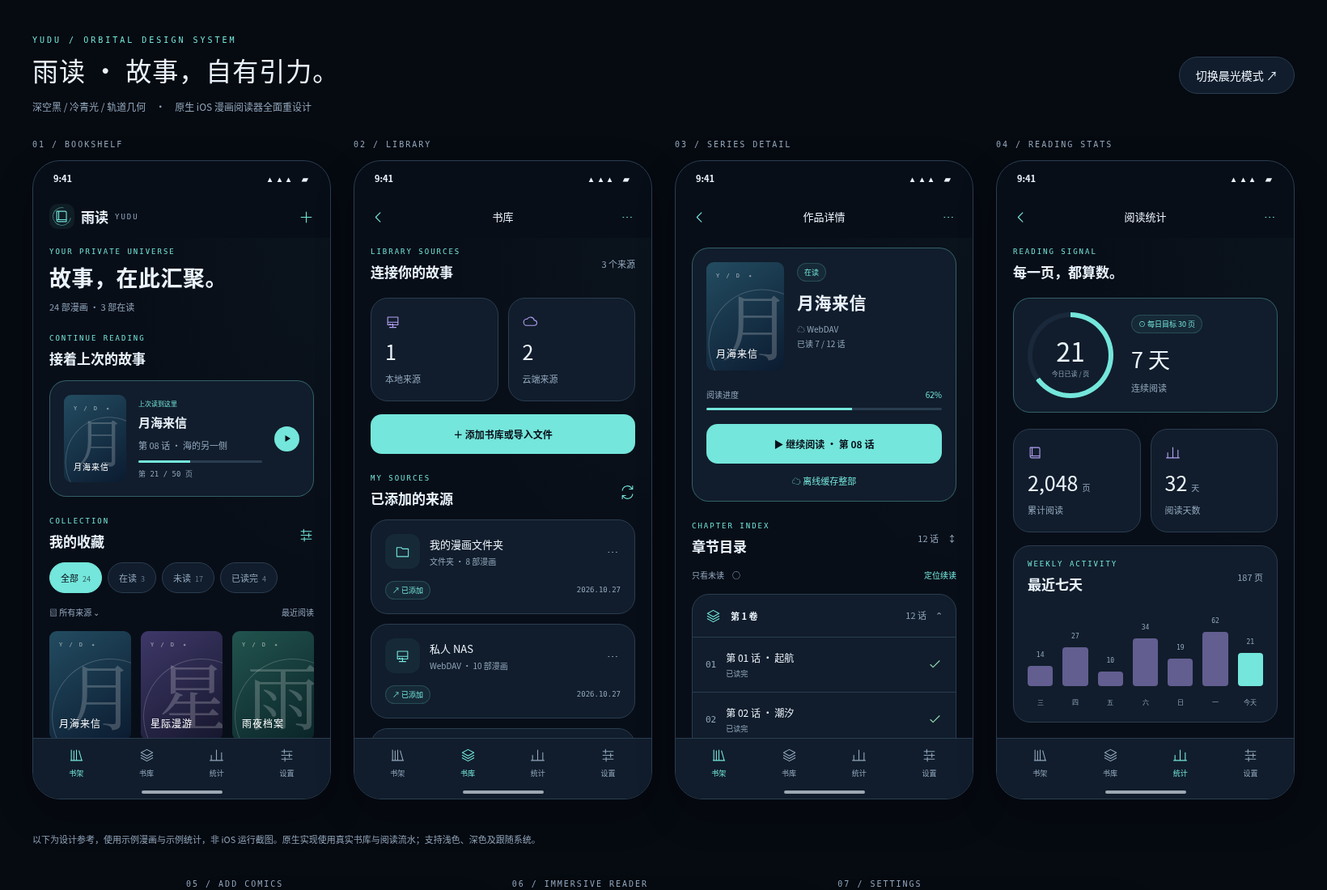
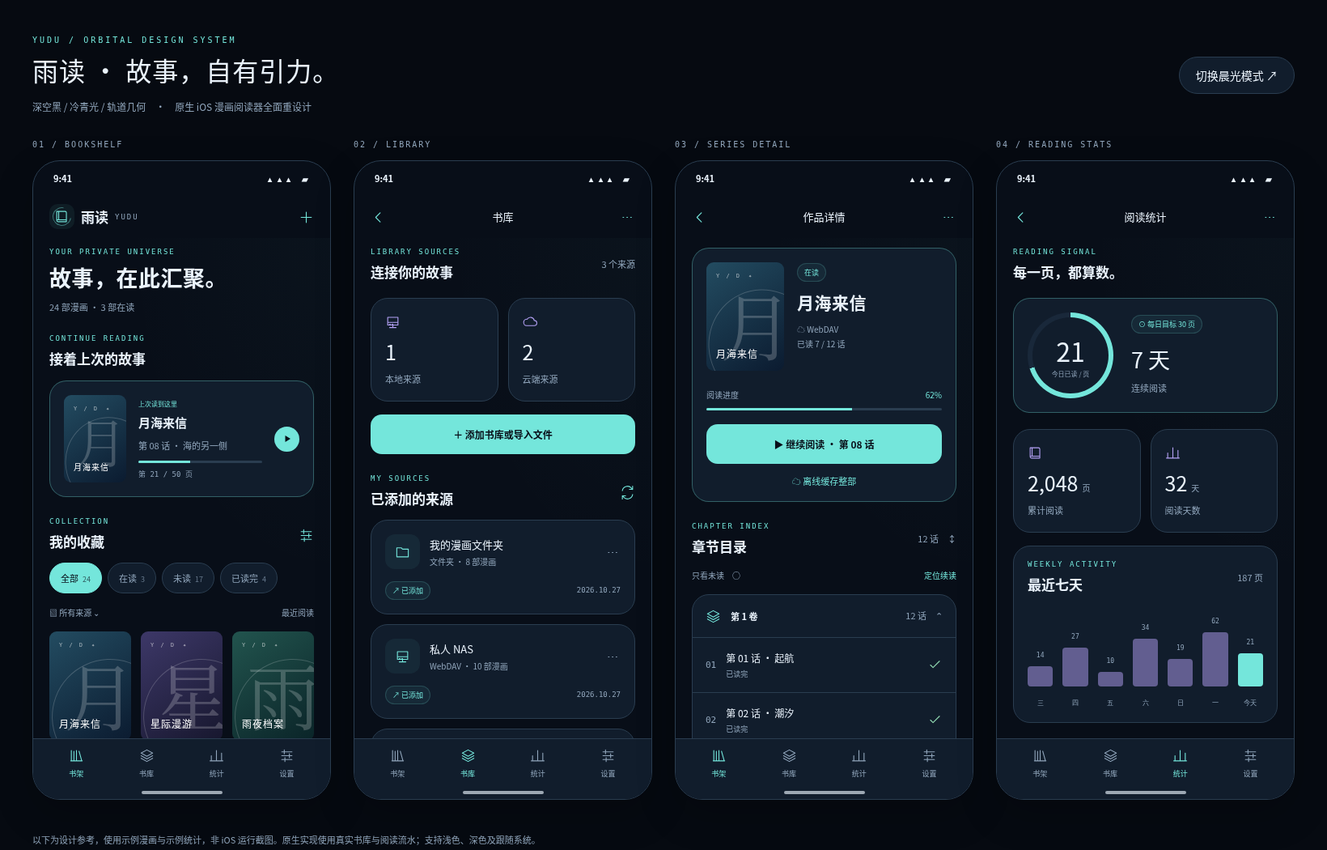
Polish native settings and disabled controls; verify Release configuration

diff --git a/docs/orbital-preview.html b/docs/orbital-preview.html
@@ -4,7 +4,7 @@
 <title>雨读 Yudu · Orbital 设计预览</title>
 <style>
 :root{color-scheme:dark;--bg:#080e18;--panel:#111d2c;--elev:#19283a;--text:#eaf3fc;--muted:#91a6bc;--line:#2a3d50;--cyan:#74e6db;--violet:#b4a1f5;--green:#92dbb3}
-*{box-sizing:border-box}body{margin:0;background:#060a11;color:#eaf3fc;font:14px -apple-system,BlinkMacSystemFont,'Noto Sans CJK SC',sans-serif}button{font:inherit;cursor:pointer}button:focus-visible{outline:2px solid var(--cyan);outline-offset:3px}button:disabled{opacity:.35;cursor:default}header{max-width:1640px;margin:auto;padding:44px 40px 30px;display:flex;align-items:center;justify-content:space-between;gap:20px}h1{font-size:32px;letter-spacing:1px;font-weight:500;margin:8px 0 12px}.kicker{font:10px ui-monospace,monospace;letter-spacing:3px;color:var(--cyan)}header p{color:#91a6bc;margin:0;font-size:12px;line-height:1.8}.theme{border:1px solid #2a3d50;background:#111d2c;color:#eaf3fc;border-radius:30px;padding:12px 20px;white-space:nowrap}.board{display:grid;grid-template-columns:repeat(4,minmax(0,1fr));gap:28px;max-width:1640px;margin:0 auto;padding:0 40px 40px}.label{font:10px ui-monospace,monospace;color:#91a6bc;letter-spacing:2px;margin:0 0 14px}.phone{height:790px;border:1px solid var(--line);border-radius:34px;background:var(--bg);overflow:hidden;position:relative;box-shadow:0 18px 50px #0003;color:var(--text)}.status{height:43px;display:flex;align-items:center;justify-content:space-between;padding:0 25px;font-size:11px;font-weight:600}.status .right{font-size:10px;letter-spacing:2px}.nav{height:52px;padding:0 20px;display:flex;align-items:center;justify-content:space-between}.wordmark{display:flex;align-items:center;gap:8px;font-size:17px;font-weight:600}.wordmark small{font:9px monospace;letter-spacing:2px;color:var(--muted)}.emblem{width:31px;height:31px;background:#74e6db12;border-radius:10px;display:grid;place-items:center;color:var(--cyan);position:relative}.emblem:before{content:'';position:absolute;inset:4px;border:1px solid #74e6db70;border-radius:50%;border-right-color:transparent;transform:rotate(-35deg)}.ico{width:19px;height:19px;fill:none;stroke:currentColor;stroke-width:1.4;stroke-linecap:round;stroke-linejoin:round;vertical-align:middle;flex-shrink:0}.iconbtn{width:40px;height:40px;display:grid;place-items:center;border:0;background:none;color:var(--cyan);padding:0}.screen{height:620px;overflow:auto;padding:12px 20px 24px;background:radial-gradient(ellipse at 100% 0,#74e6db06,transparent 50%);scrollbar-width:none}.screen::-webkit-scrollbar{display:none}.screen h2{font-size:27px;font-weight:600;letter-spacing:.5px;margin:7px 0 8px}.screen h3{font-size:17px;font-weight:600;margin:5px 0}.muted{color:var(--muted)}.caption{font-size:11px;line-height:1.7}.eyebrow{font:9px monospace;letter-spacing:2px;color:var(--cyan);margin-bottom:7px}.section{margin-top:25px}.sectiontitle{display:flex;align-items:center;justify-content:space-between;margin-bottom:14px}.sectiontitle h3{margin:0}.panel{padding:17px;border:1px solid var(--line);background:var(--panel);border-radius:21px}.feature{border-color:#74e6db55;display:flex;gap:15px;align-items:center;margin-top:15px}.cover{aspect-ratio:3/4;border-radius:9px;background:linear-gradient(145deg,#234c61,#0b1b30);position:relative;overflow:hidden;color:#fff;isolation:isolate}.cover:before{content:'';width:140%;height:104%;border:1px solid #ffffff30;border-radius:50%;position:absolute;top:25%;left:3%;transform:rotate(-25deg)}.cover:after{content:attr(data-char);font:90px 'Noto Serif CJK SC',serif;position:absolute;top:8%;left:18%;color:#ffffff35;z-index:-1}.cover .bookname{position:absolute;bottom:12px;left:12px;right:7px;font-size:12px;line-height:1.4;letter-spacing:1px}.cover .code{position:absolute;top:11px;left:12px;font:7px monospace;letter-spacing:2px;color:#ffffff90}.cover.purple{background:linear-gradient(145deg,#3d3868,#17172e)}.cover.teal{background:linear-gradient(145deg,#22544e,#0a2428)}.cover.warm{background:linear-gradient(145deg,#644a49,#291d30)}.cover.blue{background:linear-gradient(145deg,#304e77,#101b35)}.feature .cover{width:77px;min-width:77px;height:108px}.feature .cover:after{font-size:64px}.feature .bookname{font-size:10px}.feature .info{flex:1;min-width:0}.feature h4{font-size:15px;line-height:1.5;margin:0 0 6px;font-weight:600}.feature .resume{font:8px monospace;color:var(--cyan);margin-bottom:7px}.track{height:3px;background:var(--line);border-radius:6px;overflow:hidden;margin:9px 0 7px}.track span{display:block;width:42%;height:100%;background:var(--cyan)}.play{background:var(--cyan);color:var(--bg);width:31px;height:31px;border-radius:50%;display:grid;place-items:center;flex-shrink:0}.play .ico{width:12px;height:12px;fill:currentColor;stroke-width:0}.chips{display:flex;gap:7px;margin-bottom:13px}.chip{padding:10px 13px;border:1px solid var(--line);color:var(--muted);background:var(--panel);border-radius:30px;font-size:11px;white-space:nowrap}.chip.active{background:var(--cyan);color:var(--bg);border-color:var(--cyan)}.chip small{margin-left:5px;opacity:.65;font-size:9px}.sourcebar{font-size:10px;display:flex;justify-content:space-between;color:var(--muted);margin:16px 0}.grid{display:grid;grid-template-columns:repeat(3,1fr);gap:19px 12px}.book p{font-size:11px;margin:7px 0 3px;white-space:nowrap;overflow:hidden;text-overflow:ellipsis}.book small{font-size:9px;color:var(--muted)}.tabs{height:75px;border-top:1px solid var(--line);background:var(--panel);position:absolute;bottom:0;width:100%;display:flex;justify-content:space-around;align-items:flex-start;padding:11px 10px}.tab{font-size:9px;color:var(--muted);display:flex;flex-direction:column;align-items:center;gap:6px}.tab.active{color:var(--cyan)}.homebar{width:100px;height:4px;border-radius:10px;background:var(--text);position:absolute;bottom:6px;left:50%;transform:translateX(-50%);opacity:.65}.metrics{display:grid;grid-template-columns:1fr 1fr;gap:12px;margin:20px 0 16px}.metric{padding:17px}.metric .num{font-size:25px;font-weight:500;margin:9px 0 5px;font-variant-numeric:tabular-nums}.metric .ico{color:var(--violet)}.metric .num small{font-size:10px;color:var(--muted);margin-left:5px}.primary{border:none;border-radius:14px;background:var(--cyan);color:var(--bg);font-weight:600;width:100%;padding:16px 12px;font-size:12px}.pill{display:inline-flex;gap:4px;align-items:center;background:#74e6db10;color:var(--cyan);border:1px solid #74e6db30;border-radius:30px;padding:4px 8px;font-size:9px;white-space:nowrap}.source{margin:12px 0;padding:17px}.sourcerow{display:flex;align-items:center;gap:12px}.sourceicon{width:43px;height:43px;background:#74e6db10;border-radius:12px;color:var(--cyan);display:grid;place-items:center}.source strong{font-size:13px;font-weight:500}.sourcerow .text{flex:1}.sourcerow p{margin:4px 0 0;font-size:10px;color:var(--muted)}.sourcefoot{display:flex;justify-content:space-between;align-items:center;margin-top:15px}.sourcefoot small{font:9px monospace;color:var(--muted)}.note{font-size:11px;color:var(--muted);line-height:1.9}.detailtop{display:flex;gap:16px;margin-bottom:22px}.detailtop .cover{width:96px;min-width:96px;height:134px}.detailtop h2{font-size:21px;margin:10px 0}.detailtop .muted{font-size:10px;line-height:1.8}.detail .track{margin-bottom:17px}.offlinelabel{text-align:center;color:var(--cyan);font-size:11px;margin-top:13px}.chapters{padding:0;overflow:hidden}.chapter{display:flex;align-items:center;gap:12px;padding:16px;border-bottom:1px solid var(--line);font-size:12px}.chapter:last-child{border-bottom:0}.chapter .number{font:11px monospace;color:var(--muted)}.chapter .text{flex:1}.chapter small{font-size:9px;display:block;color:var(--muted);margin-top:5px}.chapter.current .number,.chapter.current small{color:var(--cyan)}.check{color:var(--green)}.circle{width:15px;height:15px;border:1px solid var(--muted);border-radius:50%}.today{display:flex;gap:22px;align-items:center;margin-top:20px}.ring{width:106px;height:106px;border-radius:50%;background:conic-gradient(var(--cyan) 65%,var(--elev) 0);padding:6px;flex-shrink:0}.ringinner{width:100%;height:100%;border-radius:50%;background:var(--panel);display:flex;flex-direction:column;align-items:center;justify-content:center}.ring strong{font-size:32px;font-weight:300}.ring small{font-size:8px;color:var(--muted)}.streak{font-size:27px;margin:12px 0 5px}.bars{height:127px;display:flex;align-items:flex-end;gap:12px;padding-top:8px}.bar{flex:1;text-align:center}.bar span{display:block;border-radius:4px;background:#b4a1f57f;margin:7px 0}.bar:last-child span{background:var(--cyan)}.bar small{font:8px monospace;color:var(--muted)}.heats{display:grid;grid-template-rows:repeat(7,9px);grid-auto-flow:column;gap:4px;margin:20px 0 14px}.heats i{background:var(--elev);border-radius:2px}.heats i:nth-child(4n){background:#74e6db30}.heats i:nth-child(7n){background:#74e6db7f}.heats i:nth-child(13n){background:var(--cyan)}.range{display:flex;background:var(--elev);border-radius:8px;padding:3px;margin-top:14px;font-size:10px;text-align:center}.range span{flex:1;padding:6px}.range .active{background:var(--panel);border-radius:6px}.footnote{max-width:1640px;margin:auto;padding:0 40px 40px;color:#91a6bc;font-size:11px;line-height:1.8}.secondary-board{grid-template-columns:repeat(3,minmax(0,1fr));max-width:1260px}.entry{display:flex;gap:13px;align-items:center;margin-top:12px}.entry .sourceicon{flex-shrink:0}.entry strong{font-size:12px}.entry p{font-size:10px;color:var(--muted);line-height:1.7;margin:5px 0 0}.entry .arrow{color:var(--violet);margin-left:auto}.settingrow{display:flex;align-items:center;justify-content:space-between;font-size:12px;padding:10px 0}.toggle{width:34px;height:21px;border-radius:30px;background:var(--cyan);position:relative}.toggle:after{content:'';position:absolute;right:3px;top:3px;width:15px;height:15px;border-radius:50%;background:var(--bg)}.settingline{height:1px;background:var(--line);margin:6px 0}.readerscreen{padding:0;background:#030609;position:relative;height:695px;display:flex;align-items:center;justify-content:center;overflow:hidden}.mangapage{background:#d9dedc;color:#171d24;width:100%;height:500px;position:relative;padding:12px}.mangagrid{height:100%;display:grid;grid-template-columns:1fr 1fr;grid-template-rows:1fr 1.4fr;gap:6px}.mangapanel{border:2px solid #171d24;position:relative;overflow:hidden;background:linear-gradient(140deg,#d9dedc 40%,#879aa4)}.mangapanel:first-child{grid-column:span 2;background:linear-gradient(155deg,#c7cecd,#6b8495)}.mangapanel .moon{width:70px;height:70px;background:#ecf1ed;border-radius:50%;position:absolute;right:40px;top:10px}.city{position:absolute;bottom:0;height:80%;width:100%;background:repeating-linear-gradient(90deg,#1a2830 0px,#1a2830 22px,transparent 22px,transparent 27px);clip-path:polygon(0 50%,10% 50%,10% 30%,25% 30%,25% 60%,35% 60%,35% 12%,45% 12%,45% 40%,55% 40%,55% 0,70% 0,70% 60%,85% 60%,85% 30%,100% 30%,100% 100%,0 100%)}.bubble{position:absolute;top:15px;left:12px;padding:14px 9px;border:1px solid #171d24;background:#f1f3ed;border-radius:50%;font-size:10px;writing-mode:vertical-rl;z-index:1}.mangapanel .silhouette{height:125px;width:60px;border-radius:50% 50% 0 0;background:#17232b;position:absolute;bottom:0;left:40px;transform:rotate(-10deg)}.readerchrome{position:absolute;bottom:0;left:0;right:0;padding:0 20px 22px;background:var(--panel)}.readerscrub{display:flex;align-items:center;gap:12px;font:10px monospace;color:var(--muted)}.readerscrub .track{flex:1}.readerbuttons{display:flex;justify-content:space-between;margin-top:14px;color:var(--cyan);font-size:10px}.readerbuttons div{display:flex;flex-direction:column;align-items:center;gap:7px}.readerbuttons small{color:var(--muted)}.newreader{font-size:10px;color:var(--muted);line-height:1.8;text-align:center;margin:18px 0}.light{--bg:#f1f5f8;--panel:#fff;--elev:#e6eef4;--text:#142333;--muted:#52667b;--line:#cad7e2;--cyan:#006d68;--violet:#6a4db3;--green:#24734b}.light .reader .phone{--bg:#080e18;--panel:#111d2c;--elev:#19283a;--text:#eaf3fc;--muted:#91a6bc;--line:#2a3d50;--cyan:#74e6db;--violet:#b4a1f5;--green:#92dbb3}@media(max-width:1100px){.board{grid-template-columns:repeat(2,minmax(0,1fr));max-width:820px}.secondary-board{max-width:820px}}@media(max-width:600px){header{padding:28px 20px;align-items:flex-start}h1{font-size:22px}.theme{font-size:11px;padding:10px}.board{grid-template-columns:1fr;max-width:420px;padding:0 20px 30px}.footnote{padding:0 20px 30px}.phone{height:790px}}
+*{box-sizing:border-box}body{margin:0;background:#060a11;color:#eaf3fc;font:14px -apple-system,BlinkMacSystemFont,'Noto Sans CJK SC',sans-serif}button{font:inherit;cursor:pointer}button:focus-visible{outline:2px solid var(--cyan);outline-offset:3px}button:disabled{opacity:.35;cursor:default}header{max-width:1640px;margin:auto;padding:44px 40px 30px;display:flex;align-items:center;justify-content:space-between;gap:20px}h1{font-size:32px;letter-spacing:1px;font-weight:500;margin:8px 0 12px}.kicker{font:10px ui-monospace,monospace;letter-spacing:3px;color:#74e6db}header p{color:#91a6bc;margin:0;font-size:12px;line-height:1.8}.theme{border:1px solid #2a3d50;background:#111d2c;color:#eaf3fc;border-radius:30px;padding:12px 20px;white-space:nowrap}.board{display:grid;grid-template-columns:repeat(4,minmax(0,1fr));gap:28px;max-width:1640px;margin:0 auto;padding:0 40px 40px}.label{font:10px ui-monospace,monospace;color:#91a6bc;letter-spacing:2px;margin:0 0 14px}.phone{height:790px;border:1px solid var(--line);border-radius:34px;background:var(--bg);overflow:hidden;position:relative;box-shadow:0 18px 50px #0003;color:var(--text)}.status{height:43px;display:flex;align-items:center;justify-content:space-between;padding:0 25px;font-size:11px;font-weight:600}.status .right{font-size:10px;letter-spacing:2px}.nav{height:52px;padding:0 20px;display:flex;align-items:center;justify-content:space-between}.wordmark{display:flex;align-items:center;gap:8px;font-size:17px;font-weight:600}.wordmark small{font:9px monospace;letter-spacing:2px;color:var(--muted)}.emblem{width:31px;height:31px;background:#74e6db12;border-radius:10px;display:grid;place-items:center;color:var(--cyan);position:relative}.emblem:before{content:'';position:absolute;inset:4px;border:1px solid #74e6db70;border-radius:50%;border-right-color:transparent;transform:rotate(-35deg)}.ico{width:19px;height:19px;fill:none;stroke:currentColor;stroke-width:1.4;stroke-linecap:round;stroke-linejoin:round;vertical-align:middle;flex-shrink:0}.iconbtn{width:40px;height:40px;display:grid;place-items:center;border:0;background:none;color:var(--cyan);padding:0}.screen{height:620px;overflow:auto;padding:12px 20px 24px;background:radial-gradient(ellipse at 100% 0,#74e6db06,transparent 50%);scrollbar-width:none}.screen::-webkit-scrollbar{display:none}.screen h2{font-size:27px;font-weight:600;letter-spacing:.5px;margin:7px 0 8px}.screen h3{font-size:17px;font-weight:600;margin:5px 0}.muted{color:var(--muted)}.caption{font-size:11px;line-height:1.7}.eyebrow{font:9px monospace;letter-spacing:2px;color:var(--cyan);margin-bottom:7px}.section{margin-top:25px}.sectiontitle{display:flex;align-items:center;justify-content:space-between;margin-bottom:14px}.sectiontitle h3{margin:0}.panel{padding:17px;border:1px solid var(--line);background:var(--panel);border-radius:21px}.feature{border-color:#74e6db55;display:flex;gap:15px;align-items:center;margin-top:15px}.cover{aspect-ratio:3/4;border-radius:9px;background:linear-gradient(145deg,#234c61,#0b1b30);position:relative;overflow:hidden;color:#fff;isolation:isolate}.cover:before{content:'';width:140%;height:104%;border:1px solid #ffffff30;border-radius:50%;position:absolute;top:25%;left:3%;transform:rotate(-25deg)}.cover:after{content:attr(data-char);font:90px 'Noto Serif CJK SC',serif;position:absolute;top:8%;left:18%;color:#ffffff35;z-index:-1}.cover .bookname{position:absolute;bottom:12px;left:12px;right:7px;font-size:12px;line-height:1.4;letter-spacing:1px}.cover .code{position:absolute;top:11px;left:12px;font:7px monospace;letter-spacing:2px;color:#ffffff90}.cover.purple{background:linear-gradient(145deg,#3d3868,#17172e)}.cover.teal{background:linear-gradient(145deg,#22544e,#0a2428)}.cover.warm{background:linear-gradient(145deg,#644a49,#291d30)}.cover.blue{background:linear-gradient(145deg,#304e77,#101b35)}.feature .cover{width:77px;min-width:77px;height:108px}.feature .cover:after{font-size:64px}.feature .bookname{font-size:10px}.feature .info{flex:1;min-width:0}.feature h4{font-size:15px;line-height:1.5;margin:0 0 6px;font-weight:600}.feature .resume{font:8px monospace;color:var(--cyan);margin-bottom:7px}.track{height:3px;background:var(--line);border-radius:6px;overflow:hidden;margin:9px 0 7px}.track span{display:block;width:42%;height:100%;background:var(--cyan)}.play{background:var(--cyan);color:var(--bg);width:31px;height:31px;border-radius:50%;display:grid;place-items:center;flex-shrink:0}.play .ico{width:12px;height:12px;fill:currentColor;stroke-width:0}.chips{display:flex;gap:7px;margin-bottom:13px}.chip{padding:10px 13px;border:1px solid var(--line);color:var(--muted);background:var(--panel);border-radius:30px;font-size:11px;white-space:nowrap}.chip.active{background:var(--cyan);color:var(--bg);border-color:var(--cyan)}.chip small{margin-left:5px;opacity:.65;font-size:9px}.sourcebar{font-size:10px;display:flex;justify-content:space-between;color:var(--muted);margin:16px 0}.grid{display:grid;grid-template-columns:repeat(3,1fr);gap:19px 12px}.book p{font-size:11px;margin:7px 0 3px;white-space:nowrap;overflow:hidden;text-overflow:ellipsis}.book small{font-size:9px;color:var(--muted)}.tabs{height:75px;border-top:1px solid var(--line);background:var(--panel);position:absolute;bottom:0;width:100%;display:flex;justify-content:space-around;align-items:flex-start;padding:11px 10px}.tab{font-size:9px;color:var(--muted);display:flex;flex-direction:column;align-items:center;gap:6px}.tab.active{color:var(--cyan)}.homebar{width:100px;height:4px;border-radius:10px;background:var(--text);position:absolute;bottom:6px;left:50%;transform:translateX(-50%);opacity:.65}.metrics{display:grid;grid-template-columns:1fr 1fr;gap:12px;margin:20px 0 16px}.metric{padding:17px}.metric .num{font-size:25px;font-weight:500;margin:9px 0 5px;font-variant-numeric:tabular-nums}.metric .ico{color:var(--violet)}.metric .num small{font-size:10px;color:var(--muted);margin-left:5px}.primary{border:none;border-radius:14px;background:var(--cyan);color:var(--bg);font-weight:600;width:100%;padding:16px 12px;font-size:12px}.pill{display:inline-flex;gap:4px;align-items:center;background:#74e6db10;color:var(--cyan);border:1px solid #74e6db30;border-radius:30px;padding:4px 8px;font-size:9px;white-space:nowrap}.source{margin:12px 0;padding:17px}.sourcerow{display:flex;align-items:center;gap:12px}.sourceicon{width:43px;height:43px;background:#74e6db10;border-radius:12px;color:var(--cyan);display:grid;place-items:center}.source strong{font-size:13px;font-weight:500}.sourcerow .text{flex:1}.sourcerow p{margin:4px 0 0;font-size:10px;color:var(--muted)}.sourcefoot{display:flex;justify-content:space-between;align-items:center;margin-top:15px}.sourcefoot small{font:9px monospace;color:var(--muted)}.note{font-size:11px;color:var(--muted);line-height:1.9}.detailtop{display:flex;gap:16px;margin-bottom:22px}.detailtop .cover{width:96px;min-width:96px;height:134px}.detailtop h2{font-size:21px;margin:10px 0}.detailtop .muted{font-size:10px;line-height:1.8}.detail .track{margin-bottom:17px}.offlinelabel{text-align:center;color:var(--cyan);font-size:11px;margin-top:13px}.chapters{padding:0;overflow:hidden}.chapter{display:flex;align-items:center;gap:12px;padding:16px;border-bottom:1px solid var(--line);font-size:12px}.chapter:last-child{border-bottom:0}.chapter .number{font:11px monospace;color:var(--muted)}.chapter .text{flex:1}.chapter small{font-size:9px;display:block;color:var(--muted);margin-top:5px}.chapter.current .number,.chapter.current small{color:var(--cyan)}.check{color:var(--green)}.circle{width:15px;height:15px;border:1px solid var(--muted);border-radius:50%}.today{display:flex;gap:22px;align-items:center;margin-top:20px}.ring{width:106px;height:106px;border-radius:50%;background:conic-gradient(var(--cyan) 70%,var(--elev) 0);padding:6px;flex-shrink:0}.ringinner{width:100%;height:100%;border-radius:50%;background:var(--panel);display:flex;flex-direction:column;align-items:center;justify-content:center}.ring strong{font-size:32px;font-weight:300}.ring small{font-size:8px;color:var(--muted)}.streak{font-size:27px;margin:12px 0 5px}.bars{height:127px;display:flex;align-items:flex-end;gap:12px;padding-top:8px}.bar{flex:1;text-align:center}.bar span{display:block;border-radius:4px;background:#b4a1f57f;margin:7px 0}.bar:last-child span{background:var(--cyan)}.bar small{font:8px monospace;color:var(--muted)}.heats{display:grid;grid-template-rows:repeat(7,9px);grid-auto-flow:column;gap:4px;margin:20px 0 14px}.heats i{background:var(--elev);border-radius:2px}.heats i:nth-child(4n){background:#74e6db30}.heats i:nth-child(7n){background:#74e6db7f}.heats i:nth-child(13n){background:var(--cyan)}.range{display:flex;background:var(--elev);border-radius:8px;padding:3px;margin-top:14px;font-size:10px;text-align:center}.range span{flex:1;padding:6px}.range .active{background:var(--panel);border-radius:6px}.footnote{max-width:1640px;margin:auto;padding:0 40px 40px;color:#91a6bc;font-size:11px;line-height:1.8}.secondary-board{grid-template-columns:repeat(3,minmax(0,1fr));max-width:1260px}.entry{display:flex;gap:13px;align-items:center;margin-top:12px}.entry .sourceicon{flex-shrink:0}.entry strong{font-size:12px}.entry p{font-size:10px;color:var(--muted);line-height:1.7;margin:5px 0 0}.entry .arrow{color:var(--violet);margin-left:auto}.settingrow{display:flex;align-items:center;justify-content:space-between;font-size:12px;padding:10px 0}.toggle{width:34px;height:21px;border-radius:30px;background:var(--cyan);position:relative}.toggle:after{content:'';position:absolute;right:3px;top:3px;width:15px;height:15px;border-radius:50%;background:var(--bg)}.settingline{height:1px;background:var(--line);margin:6px 0}.readerscreen{padding:0;background:#030609;position:relative;height:695px;display:flex;align-items:center;justify-content:center;overflow:hidden}.mangapage{background:#d9dedc;color:#171d24;width:100%;height:500px;position:relative;padding:12px}.mangagrid{height:100%;display:grid;grid-template-columns:1fr 1fr;grid-template-rows:1fr 1.4fr;gap:6px}.mangapanel{border:2px solid #171d24;position:relative;overflow:hidden;background:linear-gradient(140deg,#d9dedc 40%,#879aa4)}.mangapanel:first-child{grid-column:span 2;background:linear-gradient(155deg,#c7cecd,#6b8495)}.mangapanel .moon{width:70px;height:70px;background:#ecf1ed;border-radius:50%;position:absolute;right:40px;top:10px}.city{position:absolute;bottom:0;height:80%;width:100%;background:repeating-linear-gradient(90deg,#1a2830 0px,#1a2830 22px,transparent 22px,transparent 27px);clip-path:polygon(0 50%,10% 50%,10% 30%,25% 30%,25% 60%,35% 60%,35% 12%,45% 12%,45% 40%,55% 40%,55% 0,70% 0,70% 60%,85% 60%,85% 30%,100% 30%,100% 100%,0 100%)}.bubble{position:absolute;top:15px;left:12px;padding:14px 9px;border:1px solid #171d24;background:#f1f3ed;border-radius:50%;font-size:10px;writing-mode:vertical-rl;z-index:1}.mangapanel .silhouette{height:125px;width:60px;border-radius:50% 50% 0 0;background:#17232b;position:absolute;bottom:0;left:40px;transform:rotate(-10deg)}.readerchrome{position:absolute;bottom:0;left:0;right:0;padding:0 20px 22px;background:var(--panel)}.readerscrub{display:flex;align-items:center;gap:12px;font:10px monospace;color:var(--muted)}.readerscrub .track{flex:1}.readerbuttons{display:flex;justify-content:space-between;margin-top:14px;color:var(--cyan);font-size:10px}.readerbuttons div{display:flex;flex-direction:column;align-items:center;gap:7px}.readerbuttons small{color:var(--muted)}.newreader{font-size:10px;color:var(--muted);line-height:1.8;text-align:center;margin:18px 0}.light{--bg:#f1f5f8;--panel:#fff;--elev:#e6eef4;--text:#142333;--muted:#52667b;--line:#cad7e2;--cyan:#006d68;--violet:#6a4db3;--green:#24734b}.light .reader .phone{--bg:#080e18;--panel:#111d2c;--elev:#19283a;--text:#eaf3fc;--muted:#91a6bc;--line:#2a3d50;--cyan:#74e6db;--violet:#b4a1f5;--green:#92dbb3}@media(max-width:1100px){.board{grid-template-columns:repeat(2,minmax(0,1fr));max-width:820px}.secondary-board{max-width:820px}}@media(max-width:600px){header{padding:28px 20px;align-items:flex-start}h1{font-size:22px}.theme{font-size:11px;padding:10px}.board{grid-template-columns:1fr;max-width:420px;padding:0 20px 30px}.footnote{padding:0 20px 30px}.phone{height:790px}}
 </style>
 <header><div><div class="kicker">YUDU / ORBITAL DESIGN SYSTEM</div><h1>雨读 · 故事，自有引力。</h1><p>深空黑 / 冷青光 / 轨道几何　·　原生 iOS 漫画阅读器全面重设计</p></div><button class="theme" id="theme">切换晨光模式 ↗</button></header>
 <main class="board" id="mainboard"></main>

diff --git a/yudu/Features/Import/Cloud189LoginView.swift b/yudu/Features/Import/Cloud189LoginView.swift
@@ -32,63 +32,60 @@ struct Cloud189LoginView: View {
         switch phase {
         case .qr:
           ScrollView {
-          VStack(spacing: 22) {
-            VStack(spacing: 10) {
-              Image(systemName: "icloud.fill")
-                .font(.system(size: 26))
-                .foregroundStyle(.white)
-                .frame(width: 62, height: 62)
-                .background(
-                  LinearGradient(
-                    colors: [YuduTheme.violet, .hex(0x514777)],
-                    startPoint: .topLeading, endPoint: .bottomTrailing
-                  ),
-                  in: RoundedRectangle(cornerRadius: 16)
-                )
-                .shadow(color: YuduTheme.accent.opacity(0.4), radius: 8, y: 4)
-              Text("登录天翼云盘")
-                .font(.headline)
-              Text("用手机天翼云盘 App 扫一扫并确认")
-                .font(.caption)
-                .foregroundStyle(.secondary)
-            }
-
-            Group {
-              if let qrImage {
-                Image(uiImage: qrImage)
-                  .interpolation(.none)
-                  .resizable()
-                  .scaledToFit()
-                  .padding(14)
-                  .background(.white, in: RoundedRectangle(cornerRadius: 16))
-                  .shadow(color: .black.opacity(0.12), radius: 10, y: 4)
-              } else {
-                RoundedRectangle(cornerRadius: 16)
-                  .fill(YuduTheme.surface)
-                  .overlay(ProgressView())
+            VStack(spacing: 22) {
+              VStack(spacing: 10) {
+                Image(systemName: "icloud.fill")
+                  .font(.system(size: 26))
+                  .foregroundStyle(YuduTheme.violet)
+                  .frame(width: 62, height: 62)
+                  .background(
+                    YuduTheme.violet.opacity(0.1),
+                    in: RoundedRectangle(cornerRadius: 16)
+                  )
+                  .overlay { RoundedRectangle(cornerRadius: 16).strokeBorder(YuduTheme.violet.opacity(0.4), lineWidth: 1) }
+                Text("登录天翼云盘")
+                  .font(.headline)
+                Text("用手机天翼云盘 App 扫一扫并确认")
+                  .font(.caption)
+                  .foregroundStyle(.secondary)
               }
+
+              Group {
+                if let qrImage {
+                  Image(uiImage: qrImage)
+                    .interpolation(.none)
+                    .resizable()
+                    .scaledToFit()
+                    .padding(14)
+                    .background(.white, in: RoundedRectangle(cornerRadius: 16))
+                    .shadow(color: .black.opacity(0.12), radius: 10, y: 4)
+                } else {
+                  RoundedRectangle(cornerRadius: 16)
+                    .fill(YuduTheme.surface)
+                    .overlay(ProgressView())
+                }
+              }
+              .frame(width: 236, height: 236)
+
+              Text(statusText)
+                .font(.footnote)
+                .foregroundStyle(.secondary)
+                .padding(.horizontal, 14)
+                .padding(.vertical, 7)
+                .background(YuduTheme.surface, in: Capsule())
+
+              Button {
+                startQRLogin()
+              } label: {
+                Label("刷新二维码", systemImage: "arrow.clockwise")
+              }
+              .buttonStyle(.bordered)
+
+              Text("登录凭证保存在本机钥匙串")
+                .font(.caption2)
+                .foregroundStyle(.tertiary)
             }
-            .frame(width: 236, height: 236)
-
-            Text(statusText)
-              .font(.footnote)
-              .foregroundStyle(.secondary)
-              .padding(.horizontal, 14)
-              .padding(.vertical, 7)
-              .background(YuduTheme.surface, in: Capsule())
-
-            Button {
-              startQRLogin()
-            } label: {
-              Label("刷新二维码", systemImage: "arrow.clockwise")
-            }
-            .buttonStyle(.bordered)
-
-            Text("登录凭证保存在本机钥匙串")
-              .font(.caption2)
-              .foregroundStyle(.tertiary)
-          }
-          .frame(maxWidth: .infinity).padding(.vertical, 24).padding(.horizontal, 20)
+            .frame(maxWidth: .infinity).padding(.vertical, 24).padding(.horizontal, 20)
           }
         case .browse:
           List {

diff --git a/yudu/Features/Settings/SettingsView.swift b/yudu/Features/Settings/SettingsView.swift
@@ -31,12 +31,20 @@ struct SettingsView: View {
               .font(.caption).foregroundStyle(YuduTheme.muted)
           }
           settingsGroup("阅读偏好", eyebrow: "READING PREFERENCES") {
-            Picker("默认阅读模式", selection: Binding(get: { defaults.mode }, set: { defaults.mode = $0; defaults.save() })) {
-              ForEach(ReaderMode.allCases) { Text($0.label).tag($0) }
+            HStack {
+              Text("默认阅读模式")
+              Spacer()
+              Picker("默认阅读模式", selection: Binding(get: { defaults.mode }, set: { defaults.mode = $0; defaults.save() })) {
+                ForEach(ReaderMode.allCases) { Text($0.label).tag($0) }
+              }.pickerStyle(.menu).labelsHidden()
             }
             Divider().overlay(YuduTheme.line)
-            Picker("画面适配", selection: Binding(get: { defaults.fit }, set: { defaults.fit = $0; defaults.save() })) {
-              ForEach(ReaderFit.allCases) { Text($0.label).tag($0) }
+            HStack {
+              Text("画面适配")
+              Spacer()
+              Picker("画面适配", selection: Binding(get: { defaults.fit }, set: { defaults.fit = $0; defaults.save() })) {
+                ForEach(ReaderFit.allCases) { Text($0.label).tag($0) }
+              }.pickerStyle(.menu).labelsHidden()
             }
             Divider().overlay(YuduTheme.line)
             Toggle("从右向左翻页", isOn: Binding(get: { defaults.rtl }, set: { defaults.rtl = $0; defaults.save() }))
@@ -71,12 +79,16 @@ struct SettingsView: View {
             if cacheLimit > 0 {
               ProgressView(value: Double(min(cacheBytes, cacheLimit)), total: Double(cacheLimit)).tint(YuduTheme.accent)
             }
-            Picker("缓存容量上限", selection: $cacheLimit) {
+            HStack {
+              Text("缓存容量上限")
+              Spacer()
+              Picker("缓存容量上限", selection: $cacheLimit) {
               Text("不自动缓存").tag(Int64(0))
               Text("1 GB").tag(Int64(1 << 30))
               Text("2 GB").tag(Int64(2 << 30))
               Text("4 GB").tag(Int64(4 << 30))
               Text("8 GB").tag(Int64(8 << 30))
+              }.pickerStyle(.menu).labelsHidden()
             }
             .onChange(of: cacheLimit) { _, value in
               WebDAVCache.shared.capBytes = value

diff --git a/yudu/Features/Import/WebDAVSetupView.swift b/yudu/Features/Import/WebDAVSetupView.swift
@@ -32,13 +32,10 @@ struct WebDAVSetupView: View {
               VStack(spacing: 10) {
                 Image(systemName: "cloud.fill")
                   .font(.system(size: 26))
-                  .foregroundStyle(.white)
+                  .foregroundStyle(YuduTheme.violet)
                   .frame(width: 62, height: 62)
                   .background(
-                    LinearGradient(
-                      colors: [YuduTheme.violet, .hex(0x514777)],
-                      startPoint: .topLeading, endPoint: .bottomTrailing
-                    ),
+                    YuduTheme.violet.opacity(0.1),
                     in: RoundedRectangle(cornerRadius: 16)
                   )
                   .overlay { RoundedRectangle(cornerRadius: 16).strokeBorder(YuduTheme.violet.opacity(0.4), lineWidth: 1) }
@@ -87,7 +84,7 @@ struct WebDAVSetupView: View {
                 HStack(spacing: 8) {
                   if busy {
                     ProgressView()
-                      .tint(.white)
+                      .tint(YuduTheme.background)
                   }
                   Text("连接服务器")
                     .font(.subheadline.weight(.semibold))
@@ -95,8 +92,7 @@ struct WebDAVSetupView: View {
                 .frame(maxWidth: .infinity)
                 .padding(.vertical, 4)
               }
-              .buttonStyle(.borderedProminent)
-              .tint(YuduTheme.accent)
+              .buttonStyle(OrbitalButtonStyle())
               .disabled(busy || validatedAddress == nil)
               .listRowInsets(EdgeInsets())
               .listRowBackground(Color.clear)

diff --git a/yudu/Features/Reader/ReaderView.swift b/yudu/Features/Reader/ReaderView.swift
@@ -76,7 +76,7 @@ struct ReaderView: View {
           .multilineTextAlignment(.center)
         Button("重试") { vm.start() }
           .buttonStyle(.borderedProminent).tint(YuduTheme.accent)
-        Button("返回书架") { dismiss() }
+        Button("返回上一页") { dismiss() }
           .buttonStyle(.bordered)
           .tint(.white)
       }
@@ -196,6 +196,7 @@ struct ReaderView: View {
           Task { await vm.goToChapter(offset: -1, landing: -1) }
         } label: { Label("上一话", systemImage: "backward.end").font(.caption).frame(minHeight: 44) }
           .disabled(vm.prevChapter == nil || vm.isLoading)
+          .opacity(vm.prevChapter == nil || vm.isLoading ? 0.35 : 1)
         Spacer()
         Button { showJumpSheet = true } label: {
           HStack(spacing: 5) {
@@ -210,6 +211,7 @@ struct ReaderView: View {
           Task { await vm.goToChapter(offset: 1, landing: 0) }
         } label: { Label("下一话", systemImage: "forward.end").font(.caption).frame(minHeight: 44) }
           .disabled(vm.nextChapter == nil || vm.isLoading)
+          .opacity(vm.nextChapter == nil || vm.isLoading ? 0.35 : 1)
       }
       if vm.effectiveMode == .single, vm.pageCount > 1 {
         PageScrubber(vm: vm)
@@ -250,7 +252,7 @@ struct ReaderView: View {
         Image(systemName: icon).font(.system(size: 18, weight: .light))
         Text(label).font(.caption2).foregroundStyle(YuduTheme.muted)
       }.frame(minWidth: 52, minHeight: 48).contentShape(Rectangle())
-    }.buttonStyle(.plain)
+    }.buttonStyle(.plain).accessibilityLabel(label)
   }
 
   #if DEBUG

diff --git a/tools/ReadingFixtures.swift b/tools/ReadingFixtures.swift
@@ -50,12 +50,20 @@ func page(title: String, index: Int, color: NSColor, destination: URL) throws {
   let representation = NSBitmapImageRep(data: image.tiffRepresentation!)!
   try representation.representation(using: .png, properties: [:])!.write(to: destination)
 }
+var rendered: [String: URL] = [:]
 for (series, title) in titles.enumerated() {
   for chapter in 1...(series == 0 ? 4 : 2) {
     let folder = root.appendingPathComponent(title).appendingPathComponent(String(format: "第1卷 第%02d话", chapter))
     try FileManager.default.createDirectory(at: folder, withIntermediateDirectories: true)
     for index in 0..<8 {
-      try page(title: title, index: index, color: colors[series % colors.count], destination: folder.appendingPathComponent(String(format: "%03d.png", index + 1)))
+      let destination = folder.appendingPathComponent(String(format: "%03d.png", index + 1))
+      let cacheKey = index == 0 ? title : "page-\(index)"
+      if let existing = rendered[cacheKey] {
+        try FileManager.default.copyItem(at: existing, to: destination)
+      } else {
+        try page(title: index == 0 ? title : "原创测试页", index: index, color: colors[series % colors.count], destination: destination)
+        rendered[cacheKey] = destination
+      }
     }
   }
 }

diff --git a/yudu/Features/Shared/DesignSystem.swift b/yudu/Features/Shared/DesignSystem.swift
@@ -132,7 +132,7 @@ struct SectionHeading: View {
             .tracking(2)
             .foregroundStyle(YuduTheme.accent)
         }
-        Text(title).font(.title3.weight(.semibold))
+        Text(title).font(.title3.weight(.semibold)).accessibilityAddTraits(.isHeader)
       }
       Spacer(minLength: 8)
       if !detail.isEmpty {
@@ -162,6 +162,7 @@ struct StatusPill: View {
 }
 
 struct OrbitalButtonStyle: ButtonStyle {
+  @Environment(\.isEnabled) private var isEnabled
   var prominent = true
   func makeBody(configuration: Configuration) -> some View {
     configuration.label
@@ -169,7 +170,7 @@ struct OrbitalButtonStyle: ButtonStyle {
       .frame(maxWidth: .infinity, minHeight: 50)
       .foregroundStyle(prominent ? YuduTheme.background : YuduTheme.accent)
       .background(prominent ? YuduTheme.accent : YuduTheme.accent.opacity(0.08), in: RoundedRectangle(cornerRadius: 15))
-      .opacity(configuration.isPressed ? 0.72 : 1)
+      .opacity(isEnabled ? (configuration.isPressed ? 0.72 : 1) : 0.4)
       .contentShape(RoundedRectangle(cornerRadius: 15))
   }
 }

diff --git a/yudu/Features/Import/ImportSheet.swift b/yudu/Features/Import/ImportSheet.swift
@@ -55,7 +55,7 @@ struct ImportSheet: View {
                        icon: outcome.success ? "checkmark.circle" : "exclamationmark.triangle",
                        color: outcome.success ? YuduTheme.success : YuduTheme.warning)
             if outcome.success {
-              Button("返回书架") { router.tab = .bookshelf; dismiss() }.buttonStyle(OrbitalButtonStyle())
+              Button("返回书架") { router.bookshelfPath = []; router.tab = .bookshelf; dismiss() }.buttonStyle(OrbitalButtonStyle())
             }
           }
           if !libraryService.lastErrors.isEmpty {

diff --git a/yudu/Features/Bookshelf/BookshelfView.swift b/yudu/Features/Bookshelf/BookshelfView.swift
@@ -82,7 +82,7 @@ struct BookshelfView: View {
       .navigationTitle("书架")
       .navigationBarTitleDisplayMode(.inline)
       .toolbar {
-        ToolbarItem(placement: .topBarLeading) { YuduWordmark() }
+        ToolbarItem(placement: .principal) { YuduWordmark().fixedSize() }
         ToolbarItem(placement: .topBarTrailing) {
           Button { router.showImport = true } label: {
             Image(systemName: "plus").font(.body.weight(.medium)).frame(width: 44, height: 44)

diff --git a/yudu/App/RootView.swift b/yudu/App/RootView.swift
@@ -37,7 +37,9 @@ struct RootView: View {
       guard !didLaunchRescan else { return }
       didLaunchRescan = true
       await libraryService.rescanOnLaunch()
+      #if DEBUG
       SelfTest.maybeRun(router: router, libraryService: libraryService)
+      #endif
     }
   }
 }

diff --git a/docs/design.md b/docs/design.md
@@ -96,6 +96,7 @@ GitHub Actions 的 `iOS build and reading checks` 执行：
 1. 用真实 SwiftData 内存库运行 `tests/QueriesChecks.swift`，覆盖续读章节、部分进度、完成/未读切换、清空进度、历史统计和 WebDAV 地址。
 2. Xcode 编译 iOS Simulator App（无签名，构建时覆盖最低系统为 iOS 18，源项目的发行系统设置不变）。
 3. `tools/simulator-smoke.sh` 生成原创本地测试图，启动模拟器，走过扫描、详情、单页、恢复进度、条漫、续读书架、书库、导入、统计、设置与浅色书架，截图保存在 workflow artifact。
+4. 额外编译 Release，确保自测钩子不进入发行配置。
 
 模拟器 smoke test 仅使用本地散图文件夹，未用真实账号验证 WebDAV/NAS 与天翼云盘登录。保留这些功能的既有协议实现。签名、真机、云端认证与真实文件规模仍需在对应设备/账号上验收。
 
